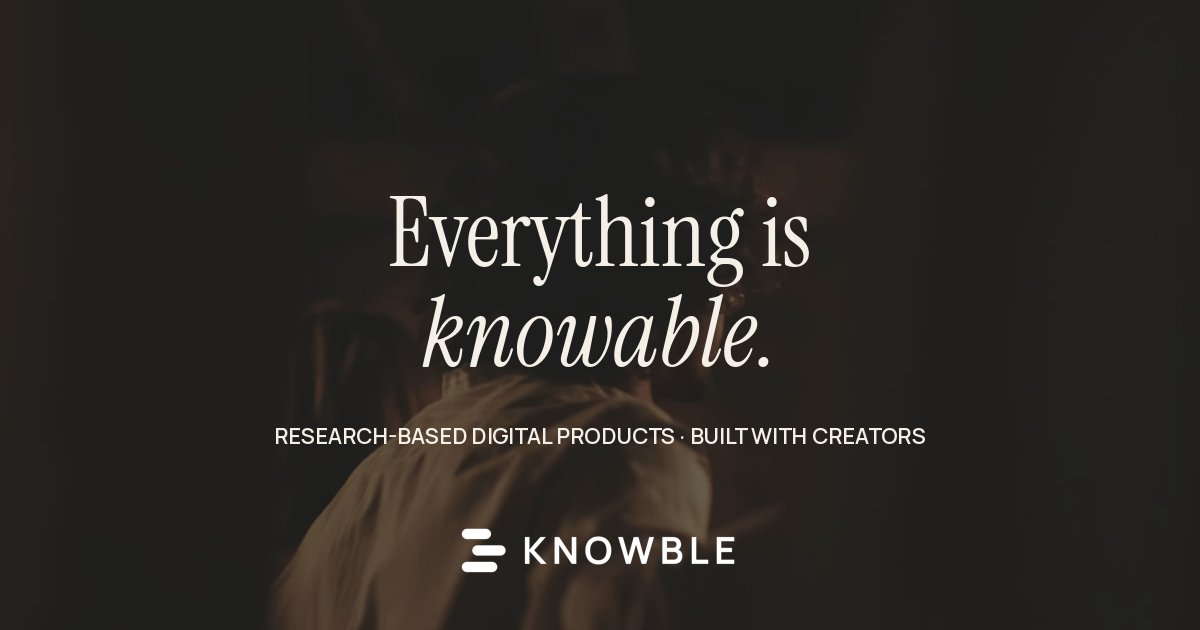
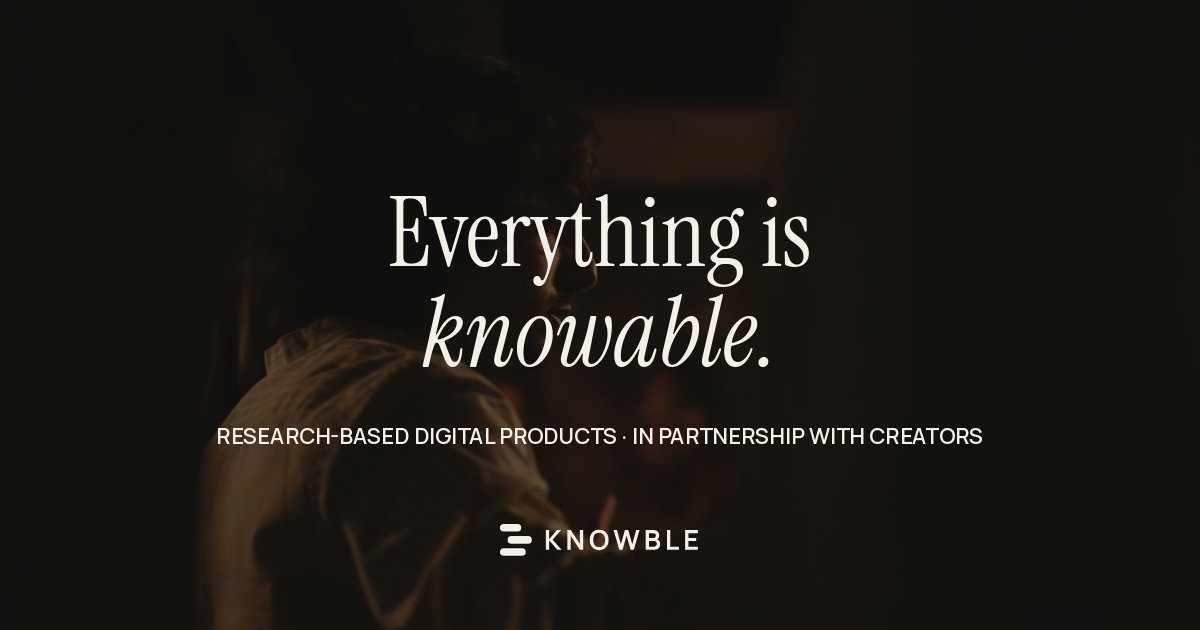
New tagline: in partnership with creators

diff --git a/index.html b/index.html
@@ -3,11 +3,11 @@
 <head>
 <meta charset="utf-8">
 <meta name="viewport" content="width=device-width, initial-scale=1">
-<title>Knowble – Research-based digital products, built with creators</title>
+<title>Knowble – Research-based digital products, in partnership with creators</title>
 <meta name="description" content="Partner with Knowble: we turn what your audience struggles with into a research-backed digital product, launched in your name. No upfront cost, revenue share from 30% for the creator.">
 <link rel="canonical" href="https://getknowble.com/">
 <meta property="og:type" content="website">
-<meta property="og:title" content="Knowble – Research-based digital products, built with creators">
+<meta property="og:title" content="Knowble – Research-based digital products, in partnership with creators">
 <meta property="og:description" content="Partner with Knowble: we turn what your audience struggles with into a research-backed digital product, launched in your name. No upfront cost, revenue share from 30% for the creator.">
 <meta property="og:url" content="https://getknowble.com/">
 <meta property="og:image" content="https://getknowble.com/assets/img/og.jpg">
@@ -90,7 +90,7 @@ details summary{list-style:none;cursor:pointer}details summary::-webkit-details-
 <div aria-hidden="true" style="position:absolute;inset:0;background:radial-gradient(ellipse 50% 42% at 50% 45%,rgba(12,8,5,.38) 0%,rgba(12,8,5,.12) 70%,rgba(12,8,5,0) 100%),linear-gradient(180deg,rgba(12,8,5,.4) 0%,rgba(12,8,5,0) 18%,rgba(12,8,5,0) 70%,rgba(12,8,5,.45) 100%)"></div>
 <div class="wrap" style="position:absolute;z-index:4;left:0;right:0;top:52%;transform:translateY(-50%);display:flex;flex-direction:column;align-items:center;text-align:center;gap:26px">
 <h1 class="c1" style="margin:0;font-family:'Instrument Serif', Georgia, serif;font-weight:400;font-size:clamp(58px,8vw,128px);line-height:.93;letter-spacing:-0.015em;text-shadow:0 2px 30px rgba(0,0,0,.3)">Everything is<br><em>knowable.</em></h1>
-<p class="c2" style="margin:0;font-size:18px;line-height:1.5;color:rgba(244,239,231,.9)">Research-backed digital products, built with creators.</p>
+<p class="c2" style="margin:0;font-size:18px;line-height:1.5;color:rgba(244,239,231,.9)">Research-based digital products, in partnership with creators.</p>
 <div class="c3"><a class="btn btn-cream" href="mailto:hello@getknowble.com?subject=Collaboration">Partner with Knowble<span class="dot" aria-hidden="true">→</span></a></div></div>
 <button class="pbtn" type="button" aria-label="Pause background video" onclick="const v=this.closest('section').querySelector('video');if(v.paused){v.play();this.textContent='❚❚ Pause'}else{v.pause();this.textContent='▶ Play'}">❚❚ Pause</button></section><section aria-label="Key facts" style="height:150px;display:flex;align-items:center"><div class="wrap" style="width:100%"><div class="ls" style="display:grid;grid-template-columns:repeat(3,minmax(0,1fr));gap:24px">
 <div class="hs2"><b>170+</b><span>studies behind our first guide</span></div>
@@ -134,7 +134,7 @@ details summary{list-style:none;cursor:pointer}details summary::-webkit-details-
 <h2 class="h2" style="font-size:clamp(44px,6vw,96px);max-width:1000px">Have an audience with a real problem? <em>Let’s build its answer.</em></h2>
 <a class="btn btn-cream" href="mailto:hello@getknowble.com">Start a conversation<span class="dot" aria-hidden="true">→</span></a><span style="font-size:13px;color:#ABA295">hello@getknowble.com</span></div></section><footer style="background:#15110E;color:#F4EFE7;overflow:hidden"><div class="wrap" style="padding-top:80px;display:flex;flex-direction:column;gap:56px">
 <div style="display:flex;flex-wrap:wrap;justify-content:space-between;gap:40px">
-<div style="font-family:'Instrument Serif', Georgia, serif;font-size:32px;line-height:1.15;max-width:420px">Research-based digital products, <em>built with creators.</em></div>
+<div style="font-family:'Instrument Serif', Georgia, serif;font-size:32px;line-height:1.15;max-width:420px">Research-based digital products, <em>in partnership with creators.</em></div>
 <div style="display:grid;grid-template-columns:repeat(2,minmax(160px,auto));gap:12px 56px;font-size:14px">
 <a href="mailto:hello@getknowble.com" style="text-decoration:none">hello@getknowble.com</a><a href="/privacy/" style="text-decoration:none">Privacy</a>
 <a href="https://instagram.com/knowblehq" style="text-decoration:none">Instagram</a><a href="https://drive.google.com/file/d/1CyAllIbXwXajBz-bKdMd2_5CEDjXKmVz/view?usp=sharing" style="text-decoration:none">Privacy for Creators</a>

diff --git a/products/index.html b/products/index.html
@@ -4,11 +4,11 @@
 <meta charset="utf-8">
 <meta name="viewport" content="width=device-width, initial-scale=1">
 <title>Products – Knowble</title>
-<meta name="description" content="Research-based guides, plans and trackers, each built with a creator for their audience. Interested in a collaboration? Contact us.">
+<meta name="description" content="Research-based guides, plans and trackers, each launched in partnership with a creator. Interested in a collaboration? Contact us.">
 <link rel="canonical" href="https://getknowble.com/products/">
 <meta property="og:type" content="website">
 <meta property="og:title" content="Products – Knowble">
-<meta property="og:description" content="Research-based guides, plans and trackers, each built with a creator for their audience. Interested in a collaboration? Contact us.">
+<meta property="og:description" content="Research-based guides, plans and trackers, each launched in partnership with a creator. Interested in a collaboration? Contact us.">
 <meta property="og:url" content="https://getknowble.com/products/">
 <meta property="og:image" content="https://getknowble.com/assets/img/og.jpg">
 <meta name="twitter:card" content="summary_large_image">
@@ -88,7 +88,7 @@ details summary{list-style:none;cursor:pointer}details summary::-webkit-details-
 </nav></header><main><section style="padding:110px 0 70px"><div class="wrap" style="display:flex;flex-direction:column;gap:22px;max-width:1240px">
 <nav aria-label="Breadcrumb" style="font-size:13px;color:#5E574F"><a href="/">Home</a> / Products</nav>
 <div class="lab" style="color:#5E574F">For creators · our products</div>
-<h1 class="h2" style="font-size:clamp(48px,6vw,96px)">Products we’ve built<br><em>with creators.</em></h1>
+<h1 class="h2" style="font-size:clamp(48px,6vw,96px)">Our products.<br><em>Shared by creators.</em></h1>
 <p style="margin:0;color:#5E574F;font-size:18px;max-width:620px">Each product is researched, written and designed by Knowble and launched with a creator for their audience. Open one to look inside – and imagine yours.</p>
 <div style="margin-top:10px"><a class="btn btn-ink" href="mailto:hello@getknowble.com?subject=Collaboration">Interested in a collaboration?<span class="dot" aria-hidden="true">→</span></a></div>
 </div></section>
@@ -106,7 +106,7 @@ details summary{list-style:none;cursor:pointer}details summary::-webkit-details-
 <h2 class="h2" style="font-size:clamp(44px,6vw,96px);max-width:1000px">Have an audience with a real problem? <em>Let’s build its answer.</em></h2>
 <a class="btn btn-cream" href="mailto:hello@getknowble.com">Start a conversation<span class="dot" aria-hidden="true">→</span></a><span style="font-size:13px;color:#ABA295">hello@getknowble.com</span></div></section><footer style="background:#15110E;color:#F4EFE7;overflow:hidden"><div class="wrap" style="padding-top:80px;display:flex;flex-direction:column;gap:56px">
 <div style="display:flex;flex-wrap:wrap;justify-content:space-between;gap:40px">
-<div style="font-family:'Instrument Serif', Georgia, serif;font-size:32px;line-height:1.15;max-width:420px">Research-based digital products, <em>built with creators.</em></div>
+<div style="font-family:'Instrument Serif', Georgia, serif;font-size:32px;line-height:1.15;max-width:420px">Research-based digital products, <em>in partnership with creators.</em></div>
 <div style="display:grid;grid-template-columns:repeat(2,minmax(160px,auto));gap:12px 56px;font-size:14px">
 <a href="mailto:hello@getknowble.com" style="text-decoration:none">hello@getknowble.com</a><a href="/privacy/" style="text-decoration:none">Privacy</a>
 <a href="https://instagram.com/knowblehq" style="text-decoration:none">Instagram</a><a href="https://drive.google.com/file/d/1CyAllIbXwXajBz-bKdMd2_5CEDjXKmVz/view?usp=sharing" style="text-decoration:none">Privacy for Creators</a>

diff --git a/products/night-shift-ready/index.html b/products/night-shift-ready/index.html
@@ -118,7 +118,7 @@ pr.onclick=()=>go(cur()-1);nx.onclick=()=>go(cur()+1);t.addEventListener('scroll
 <section style="padding:110px 0;"><div class="wrap" style="display:grid;grid-template-columns:minmax(0,1fr) minmax(0,2.4fr);gap:48px;align-items:start"><div class="lab" style="color:#5E574F;padding-top:12px;border-top:1px solid #16120F">FAQ</div><div><details style="border-top:1px solid #16120F;padding:24px 0"><summary style="display:flex;justify-content:space-between;align-items:center;gap:24px;font-family:'Instrument Serif', Georgia, serif;font-size:clamp(22px,2.2vw,28px);line-height:1.15">Is this the full product?<span class="plus" aria-hidden="true" style="font-family:Manrope,sans-serif;font-size:24px;font-weight:300">+</span></summary><p style="margin:14px 0 0;color:#5E574F;max-width:640px">No – the preview shows the first 11 pages of the guide and the plan, watermarked. Partners get the full product after signing a short confidentiality agreement.</p></details><details style="border-top:1px solid #16120F;padding:24px 0"><summary style="display:flex;justify-content:space-between;align-items:center;gap:24px;font-family:'Instrument Serif', Georgia, serif;font-size:clamp(22px,2.2vw,28px);line-height:1.15">Can you build something similar for my audience?<span class="plus" aria-hidden="true" style="font-family:Manrope,sans-serif;font-size:24px;font-weight:300">+</span></summary><p style="margin:14px 0 0;color:#5E574F;max-width:640px">Yes. Tell us who follows you and what they struggle with, and we’ll check the demand and the research. Write to hello@getknowble.com.</p></details><details style="border-top:1px solid #16120F;border-bottom:1px solid #16120F;padding:24px 0"><summary style="display:flex;justify-content:space-between;align-items:center;gap:24px;font-family:'Instrument Serif', Georgia, serif;font-size:clamp(22px,2.2vw,28px);line-height:1.15">Is this medical advice?<span class="plus" aria-hidden="true" style="font-family:Manrope,sans-serif;font-size:24px;font-weight:300">+</span></summary><p style="margin:14px 0 0;color:#5E574F;max-width:640px">No. It’s general information based on published research, not medical advice.</p></details></div></div></section>
 </main><footer style="background:#15110E;color:#F4EFE7;overflow:hidden"><div class="wrap" style="padding-top:80px;display:flex;flex-direction:column;gap:56px">
 <div style="display:flex;flex-wrap:wrap;justify-content:space-between;gap:40px">
-<div style="font-family:'Instrument Serif', Georgia, serif;font-size:32px;line-height:1.15;max-width:420px">Research-based digital products, <em>built with creators.</em></div>
+<div style="font-family:'Instrument Serif', Georgia, serif;font-size:32px;line-height:1.15;max-width:420px">Research-based digital products, <em>in partnership with creators.</em></div>
 <div style="display:grid;grid-template-columns:repeat(2,minmax(160px,auto));gap:12px 56px;font-size:14px">
 <a href="mailto:hello@getknowble.com" style="text-decoration:none">hello@getknowble.com</a><a href="/privacy/" style="text-decoration:none">Privacy</a>
 <a href="https://instagram.com/knowblehq" style="text-decoration:none">Instagram</a><a href="https://drive.google.com/file/d/1CyAllIbXwXajBz-bKdMd2_5CEDjXKmVz/view?usp=sharing" style="text-decoration:none">Privacy for Creators</a>

diff --git a/404.html b/404.html
@@ -87,7 +87,7 @@ details summary{list-style:none;cursor:pointer}details summary::-webkit-details-
 <a class="pill" href="mailto:hello@getknowble.com" style="text-decoration:none;background:#F4EFE7;color:#16120F;padding:12px 22px;border-radius:999px;font-size:12px;font-weight:700;letter-spacing:.1em;text-transform:uppercase;white-space:nowrap">Partner with us</a>
 </nav></header><main><section style="padding:160px 0"><div class="wrap" style="display:flex;flex-direction:column;align-items:center;text-align:center;gap:22px"><div class="lab" style="color:#5E574F">404</div><h1 class="h2">This page isn’t <em>knowable</em> yet.</h1><p style="margin:0;color:#5E574F">The page you’re looking for doesn’t exist.</p><a class="btn btn-ink" href="/">Back to the homepage<span class="dot" aria-hidden="true">→</span></a></div></section></main><footer style="background:#15110E;color:#F4EFE7;overflow:hidden"><div class="wrap" style="padding-top:80px;display:flex;flex-direction:column;gap:56px">
 <div style="display:flex;flex-wrap:wrap;justify-content:space-between;gap:40px">
-<div style="font-family:'Instrument Serif', Georgia, serif;font-size:32px;line-height:1.15;max-width:420px">Research-based digital products, <em>built with creators.</em></div>
+<div style="font-family:'Instrument Serif', Georgia, serif;font-size:32px;line-height:1.15;max-width:420px">Research-based digital products, <em>in partnership with creators.</em></div>
 <div style="display:grid;grid-template-columns:repeat(2,minmax(160px,auto));gap:12px 56px;font-size:14px">
 <a href="mailto:hello@getknowble.com" style="text-decoration:none">hello@getknowble.com</a><a href="/privacy/" style="text-decoration:none">Privacy</a>
 <a href="https://instagram.com/knowblehq" style="text-decoration:none">Instagram</a><a href="https://drive.google.com/file/d/1CyAllIbXwXajBz-bKdMd2_5CEDjXKmVz/view?usp=sharing" style="text-decoration:none">Privacy for Creators</a>

diff --git a/privacy/index.html b/privacy/index.html
@@ -95,7 +95,7 @@ details summary{list-style:none;cursor:pointer}details summary::-webkit-details-
 <p style="margin:0">Questions or requests about your data: <a href="mailto:hello@getknowble.com">hello@getknowble.com</a>.</p>
 </div></section></main><footer style="background:#15110E;color:#F4EFE7;overflow:hidden"><div class="wrap" style="padding-top:80px;display:flex;flex-direction:column;gap:56px">
 <div style="display:flex;flex-wrap:wrap;justify-content:space-between;gap:40px">
-<div style="font-family:'Instrument Serif', Georgia, serif;font-size:32px;line-height:1.15;max-width:420px">Research-based digital products, <em>built with creators.</em></div>
+<div style="font-family:'Instrument Serif', Georgia, serif;font-size:32px;line-height:1.15;max-width:420px">Research-based digital products, <em>in partnership with creators.</em></div>
 <div style="display:grid;grid-template-columns:repeat(2,minmax(160px,auto));gap:12px 56px;font-size:14px">
 <a href="mailto:hello@getknowble.com" style="text-decoration:none">hello@getknowble.com</a><a href="/privacy/" style="text-decoration:none">Privacy</a>
 <a href="https://instagram.com/knowblehq" style="text-decoration:none">Instagram</a><a href="https://drive.google.com/file/d/1CyAllIbXwXajBz-bKdMd2_5CEDjXKmVz/view?usp=sharing" style="text-decoration:none">Privacy for Creators</a>
